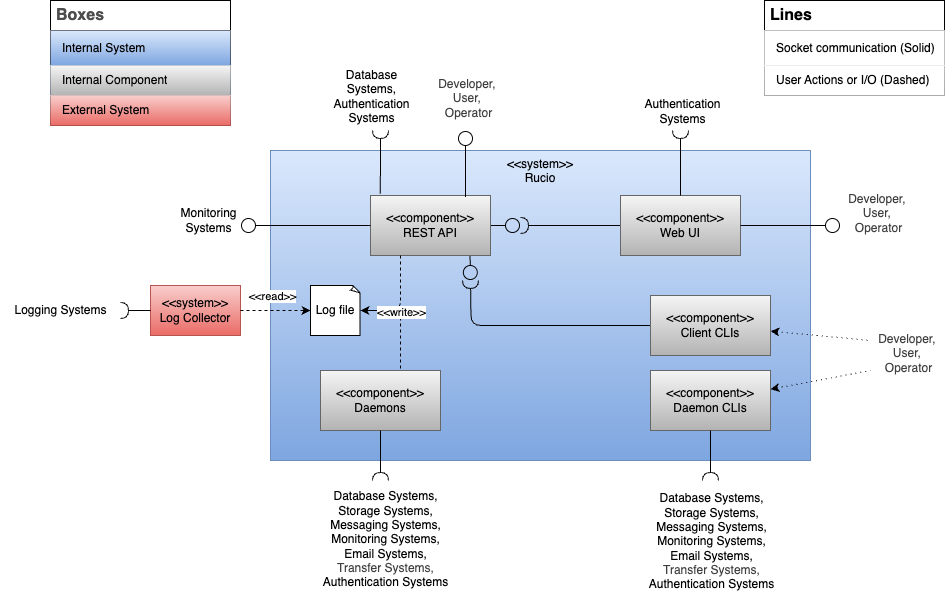
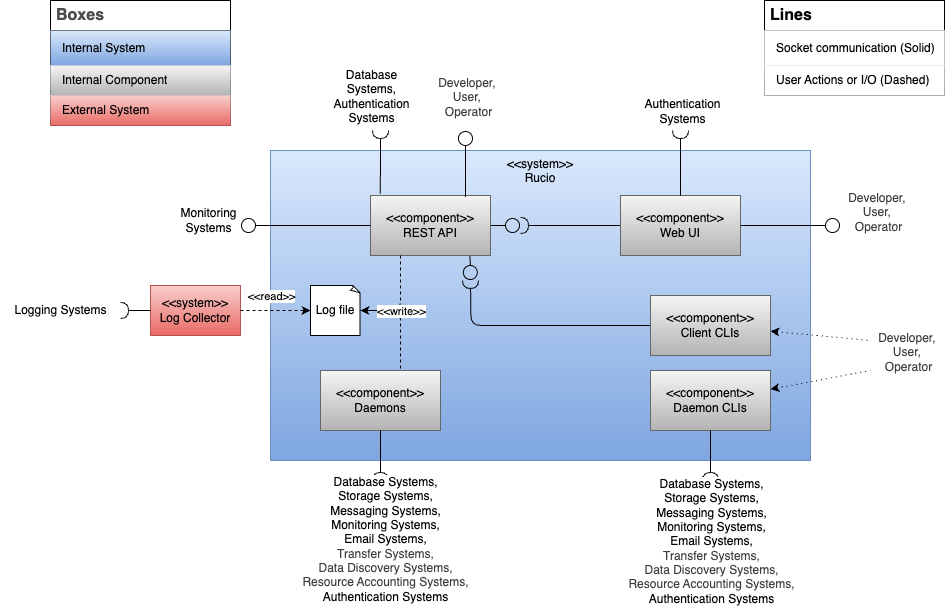
docs: extend high level component diagrams based on new requirements

diff --git a/README.md b/README.md
@@ -32,11 +32,13 @@ See [What is Rucio?](https://rucio.github.io/documentation/started/what_is_rucio
 | Name | Type | Description |
 | --- | --- | --- |
 | Rucio | Internal System | Scientific data management framework providing declarative policy-based data organization, transfer, and lifecycle management across distributed heterogeneous storage infrastructure |
-| Workflow Management Systems | External System | Job and task orchestration platforms including HPC clusters with batch scheduling systems, container orchestration, and scientific workflow engines that coordinate with Rucio for data availability, computational processing, and output registration |
-| Authentication Systems | External System | Identity and access management services providing user authentication and authorization through various protocols and credential mechanisms |
-| Storage Systems | External System | Heterogeneous storage backends including traditional filesystems, object storage, tape archives, cloud storage and external data repositories (such as Copernicus, DestinE, EUCAIM) accessed through standardized protocols |
+| Workflow Management Systems | External System | Job and task orchestration platforms including HPC clusters with batch scheduling systems, container orchestration, scientific workflow engines and data preparation pipelines  that coordinate with Rucio for data availability, computational processing, and output registration |
+| Authentication Systems | External System | Identity and access management services providing user authentication and authorization through various protocols and credential mechanisms, including federated multi-issuer token services and policy decision points for fine-grained access control |
+| Storage Systems | External System | Heterogeneous storage backends including traditional filesystems, object storage, tape archives, cloud storage and external data repositories (such as Copernicus, DestinE, EUCAIM) accessed through standardized protocols, with QoS-aware tiering and HPC parallel filesystems |
 | Monitoring Systems | External System | Analytics and observability platforms that collect, process, and visualize system performance metrics, usage statistics, and operational health data, including research infrastructure services providing popularity analytics and domain-specific metadata services |
 | Logging Systems | External System | Centralized logging infrastructure that aggregates, stores, and provides search capabilities for system events, audit trails, and troubleshooting information |
+| Resource Accounting Systems | External System | Credit management and quota enforcement services that track resource consumption, manage allocations, and enforce usage limits across federated infrastructure | 
+| Data Discovery Systems | External System | Catalogue and metadata federation services including ESGF Search, FAIR Data Points, and domain-specific discovery interfaces that enable cross-repository data location and metadata harmonization | 
 | Database Systems | External System | Transactional relational database management systems that serve as the persistence layer for catalog metadata, system state, and configuration data, including FAIR Data Points providing standardized metadata and data discovery services |
 | Transfer Systems | External System | Data movement services and protocols that handle the physical transfer of files between storage endpoints with reliability, scheduling, and error handling capabilities |
 | Messaging Systems | External System | Messaging services that enable asynchronous communication between distributed components, supporting event-driven architectures, decoupling, reliable message delivery, and catalogue change notifications to external applications |
